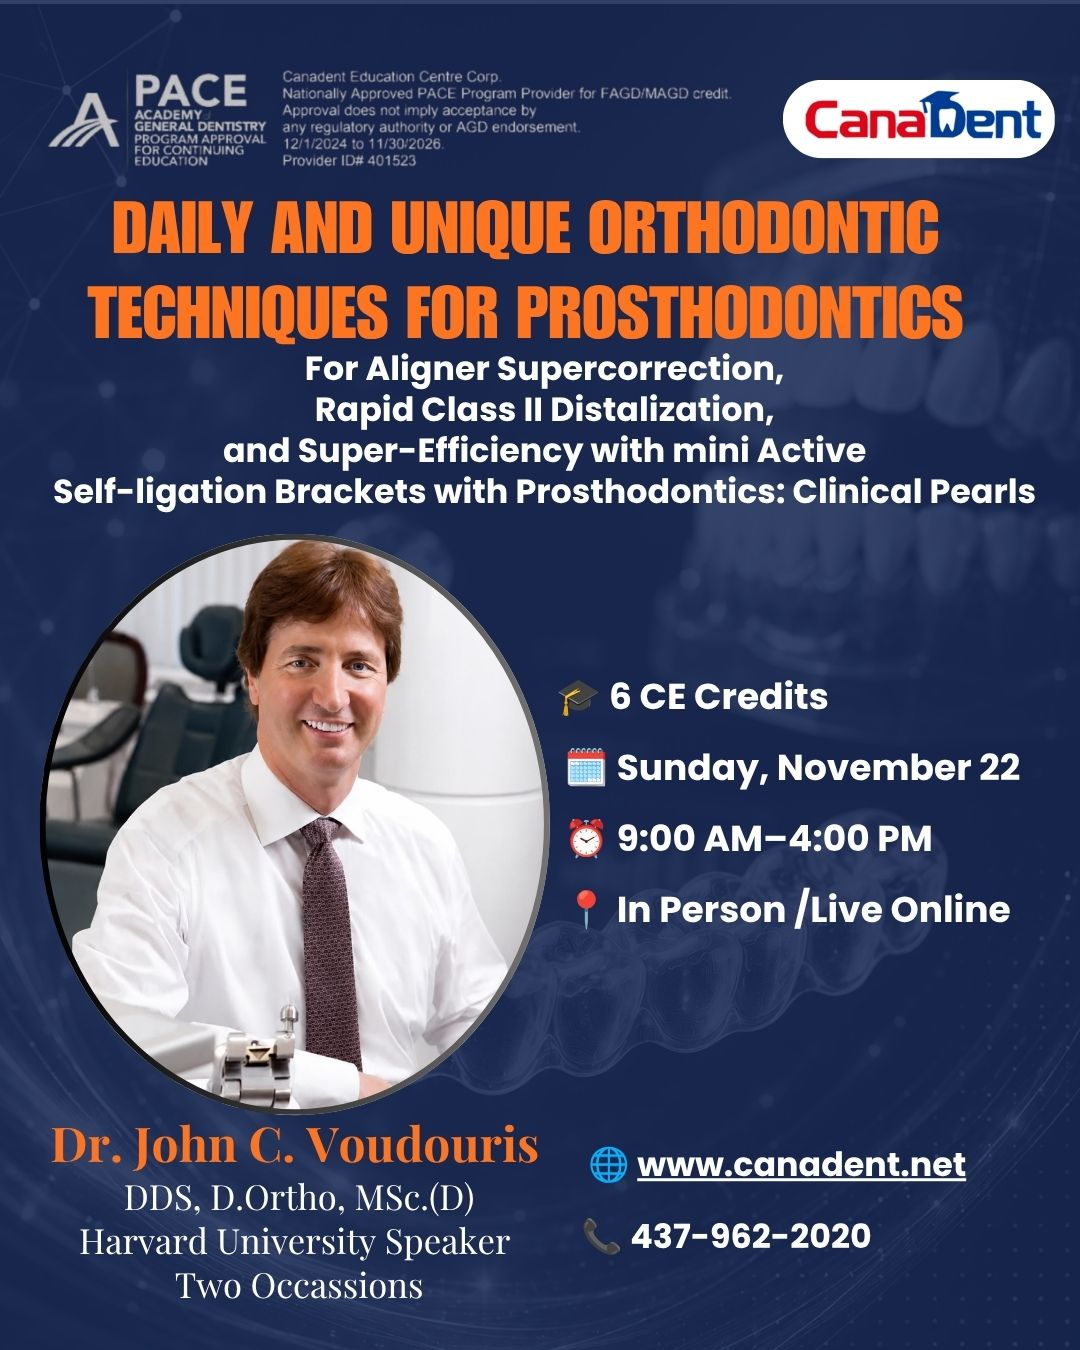
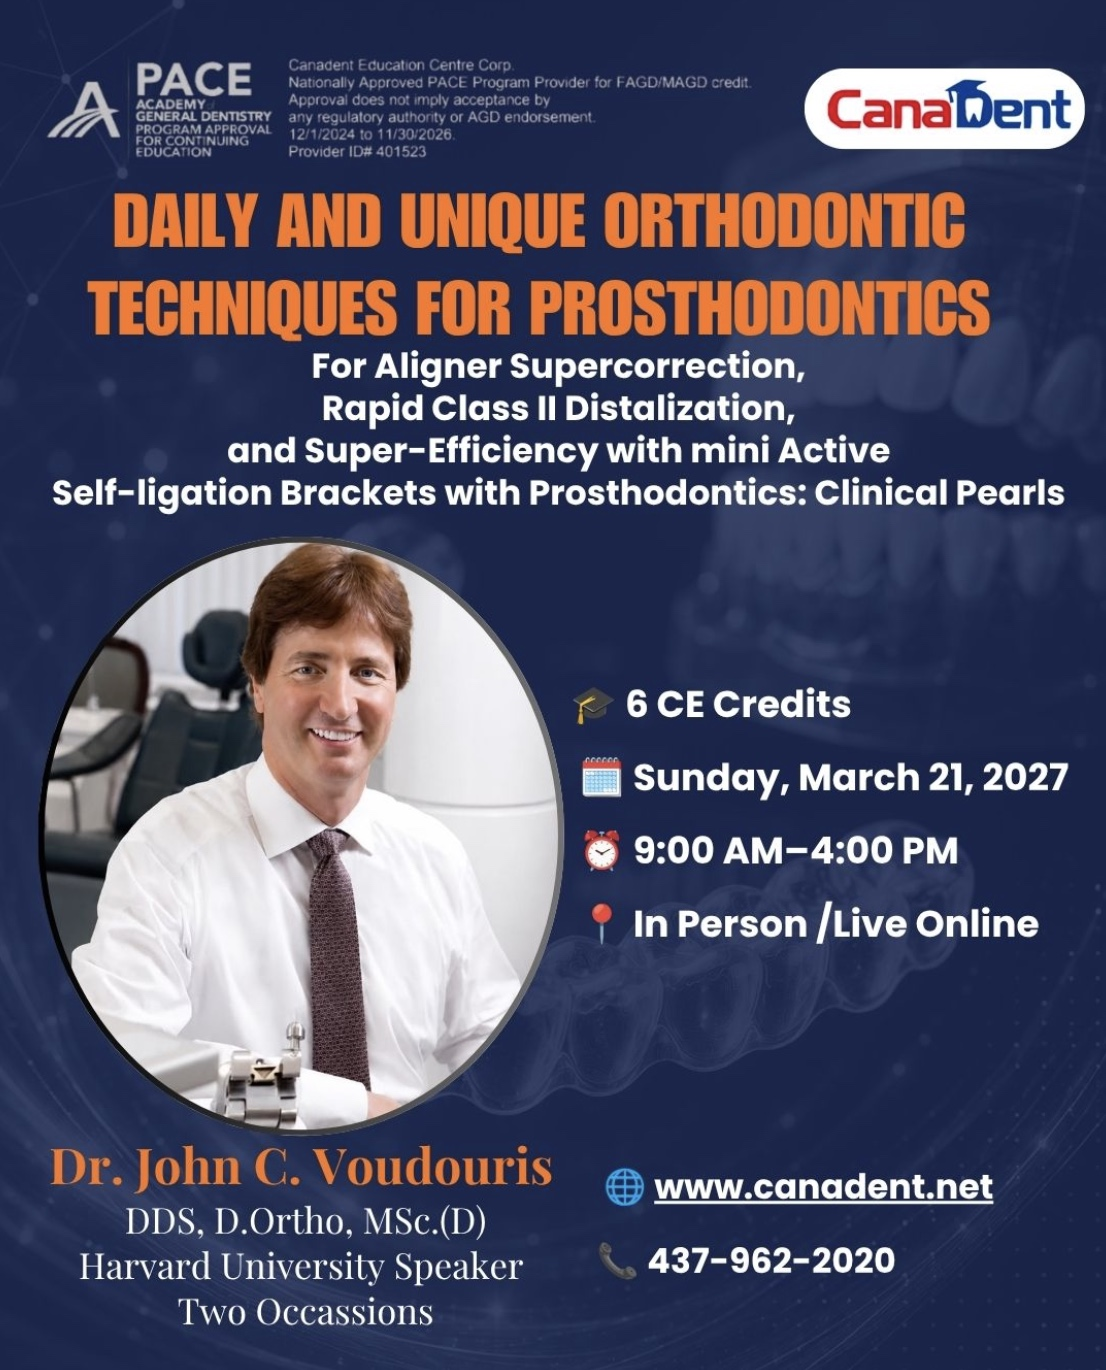
Update orthodontics course poster and date to March 21, 2027
Daily and Unique Orthodontic Techniques for Prosthodontics:
- Replace course poster image with updated version
- Move date from Nov 22, 2026 to Sunday, March 21, 2027
  (courses.ts date + calendar UTC timestamps, EDT/UTC-4)
- Update date references in ChatWidget and AnnouncementBar

diff --git a/src/components/ChatWidget.tsx b/src/components/ChatWidget.tsx
@@ -21,7 +21,7 @@ const INTENTS: Intent[] = [
   {
     patterns: [/all courses|what courses|upcoming|what do you offer|catalog|list.*course|course.*list/i],
     response:
-      "We have two courses enrolling now for Fall 2026:\n\n• Advanced Adhesive Dentistry: The Master Blueprint — Sept 6 · Hybrid: $600 online / $799 in-person · 6 CE credits · Dr. Amin Asadollahi\n\n• Daily and Unique Orthodontic Techniques — Nov 22 · Hybrid: $399 online / $599 in-person · 6 PACE CE credits · Dr. John Voudouris\n\nAll prices exclude 13% HST, which is added at checkout.\n\nAsk me about either one, or browse the full catalog at canadent.net/courses",
+      "We have two courses enrolling now for Fall 2026:\n\n• Advanced Adhesive Dentistry: The Master Blueprint — Sept 6 · Hybrid: $600 online / $799 in-person · 6 CE credits · Dr. Amin Asadollahi\n\n• Daily and Unique Orthodontic Techniques — Mar 21, 2027 · Hybrid: $399 online / $599 in-person · 6 PACE CE credits · Dr. John Voudouris\n\nAll prices exclude 13% HST, which is added at checkout.\n\nAsk me about either one, or browse the full catalog at canadent.net/courses",
   },
   {
     patterns: [/adhesive|composite|bonding|master blueprint|asadollahi|restorative|ids|dme|rubber dam|dentin|amin/i],
@@ -31,7 +31,7 @@ const INTENTS: Intent[] = [
   {
     patterns: [/ortho|orthodontic|aligner|voudouris|clear aligner|brackets|biomechanics|deep bite|open bite|class ii|class iii|supercorrection/i],
     response:
-      "Daily and Unique Orthodontic Techniques\n\nInstructor: Dr. John C. Voudouris, DDS, D.Ortho, MSc.(D)\nDate: Sunday, November 22, 2026\nLocation: 265 Rimrock Rd, North York, ON\nFormat: Hybrid — online or in-person, with hands-on demos · 6 hours · 6 PACE CE credits\nPrice: $399 online · $599 in-person. Prices exclude 13% HST, added at checkout.\n\nCovers evidence-based aligner therapy, JV Supercorrection Rx, deep bite, open bite, Class II/III, and hands-on auxiliary demos.\n\nReserve your seat:\ncanadent.net/courses/daily-unique-orthodontic-techniques",
+      "Daily and Unique Orthodontic Techniques\n\nInstructor: Dr. John C. Voudouris, DDS, D.Ortho, MSc.(D)\nDate: Sunday, March 21, 2027\nLocation: 265 Rimrock Rd, North York, ON\nFormat: Hybrid — online or in-person, with hands-on demos · 6 hours · 6 PACE CE credits\nPrice: $399 online · $599 in-person. Prices exclude 13% HST, added at checkout.\n\nCovers evidence-based aligner therapy, JV Supercorrection Rx, deep bite, open bite, Class II/III, and hands-on auxiliary demos.\n\nReserve your seat:\ncanadent.net/courses/daily-unique-orthodontic-techniques",
   },
   {
     patterns: [/endo|root canal|endodontic|apex|pulp|bakhtiar|hengameh|precision endo/i],
@@ -51,7 +51,7 @@ const INTENTS: Intent[] = [
   {
     patterns: [/register|enroll|enrol|sign up|book|reserve|seat|spot/i],
     response:
-      "You can register directly on each course page:\n\n• Advanced Adhesive Dentistry (Sept 6):\n  canadent.net/courses/advanced-adhesive-dentistry-master-blueprint\n\n• Orthodontic Techniques (Nov 22):\n  canadent.net/courses/daily-unique-orthodontic-techniques\n\nNeed help? Call 1.437.370.0122 or email admin@canadent.net",
+      "You can register directly on each course page:\n\n• Advanced Adhesive Dentistry (Sept 6):\n  canadent.net/courses/advanced-adhesive-dentistry-master-blueprint\n\n• Orthodontic Techniques (Mar 21, 2027):\n  canadent.net/courses/daily-unique-orthodontic-techniques\n\nNeed help? Call 1.437.370.0122 or email admin@canadent.net",
   },
   {
     patterns: [/where|location|address|venue|rimrock|north york|parking|campus|directions/i],
@@ -71,7 +71,7 @@ const INTENTS: Intent[] = [
   {
     patterns: [/instructor|teacher|faculty|who teaches|presenter|speaker|\bdr\b/i],
     response:
-      "Our Fall 2026 instructors:\n\n• Dr. Amin Asadollahi — Restorative Specialist\n  (Advanced Adhesive Dentistry, Sept 6)\n\n• Dr. John C. Voudouris, DDS, D.Ortho, MSc.(D)\n  (Orthodontic Techniques, Nov 22)\n\nOur faculty includes FRCD(C)-certified specialists, university professors, and internationally recognized clinicians.",
+      "Our Fall 2026 instructors:\n\n• Dr. Amin Asadollahi — Restorative Specialist\n  (Advanced Adhesive Dentistry, Sept 6)\n\n• Dr. John C. Voudouris, DDS, D.Ortho, MSc.(D)\n  (Orthodontic Techniques, Mar 21, 2027)\n\nOur faculty includes FRCD(C)-certified specialists, university professors, and internationally recognized clinicians.",
   },
   {
     patterns: [/cancel|refund|policy|enrolment agreement|withdraw|transfer/i],

diff --git a/src/lib/courses.ts b/src/lib/courses.ts
@@ -268,7 +268,7 @@ export const courses: Course[] = [
       { label: "In-Person Attendance", price: 599, originalPrice: 999 },
       { label: "Online Attendance", price: 399, originalPrice: 450 },
     ],
-    date: "Sunday, November 22, 2026",
+    date: "Sunday, March 21, 2027",
     time: "9:00 AM – 4:00 PM",
     duration: "6 hours",
     location: "Hybrid — Online + In-Person (265 Rimrock Rd, North York, ON)",
@@ -356,8 +356,8 @@ export const courses: Course[] = [
       },
     ],
     calendar: {
-      startUtc: "2026-11-22T14:00:00Z",
-      endUtc: "2026-11-22T21:00:00Z",
+      startUtc: "2027-03-21T13:00:00Z",
+      endUtc: "2027-03-21T20:00:00Z",
       timezone: "America/Toronto",
     },
   },

diff --git a/src/components/AnnouncementBar.tsx b/src/components/AnnouncementBar.tsx
@@ -25,7 +25,7 @@ export function AnnouncementBar() {
           href="/courses/daily-unique-orthodontic-techniques"
           className="underline underline-offset-2 hover:opacity-70 transition-opacity hidden sm:inline"
         >
-          Orthodontic Techniques — Nov 22
+          Orthodontic Techniques — Mar 21, 2027
         </Link>
         <span className="opacity-60 mx-1 text-[#0f2150] font-normal hidden sm:inline">
           (Revised fee: from $399)
